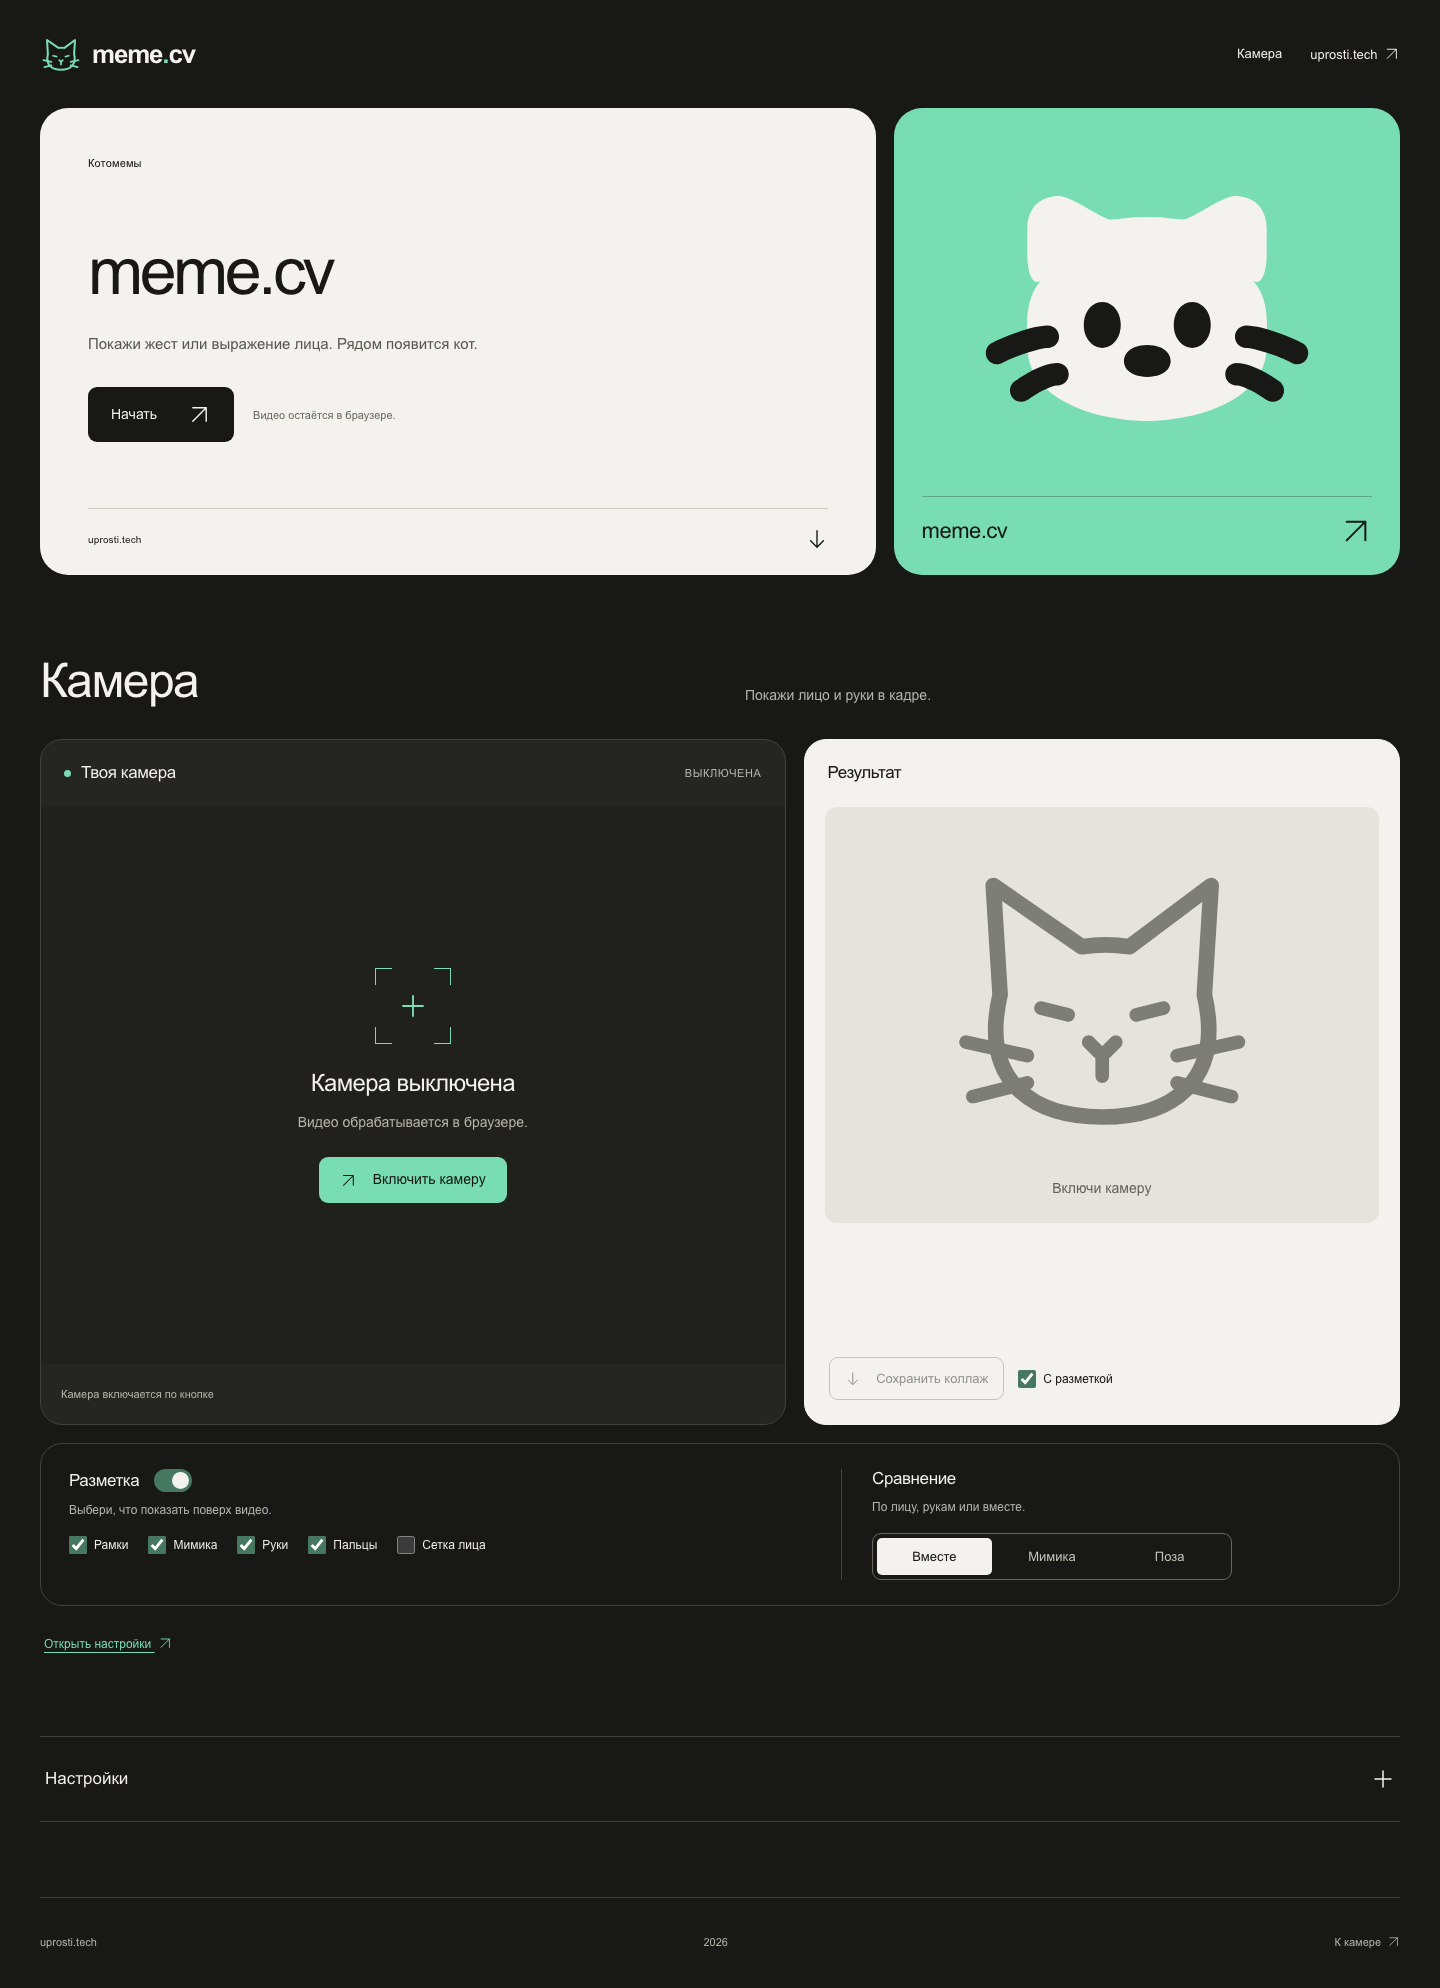
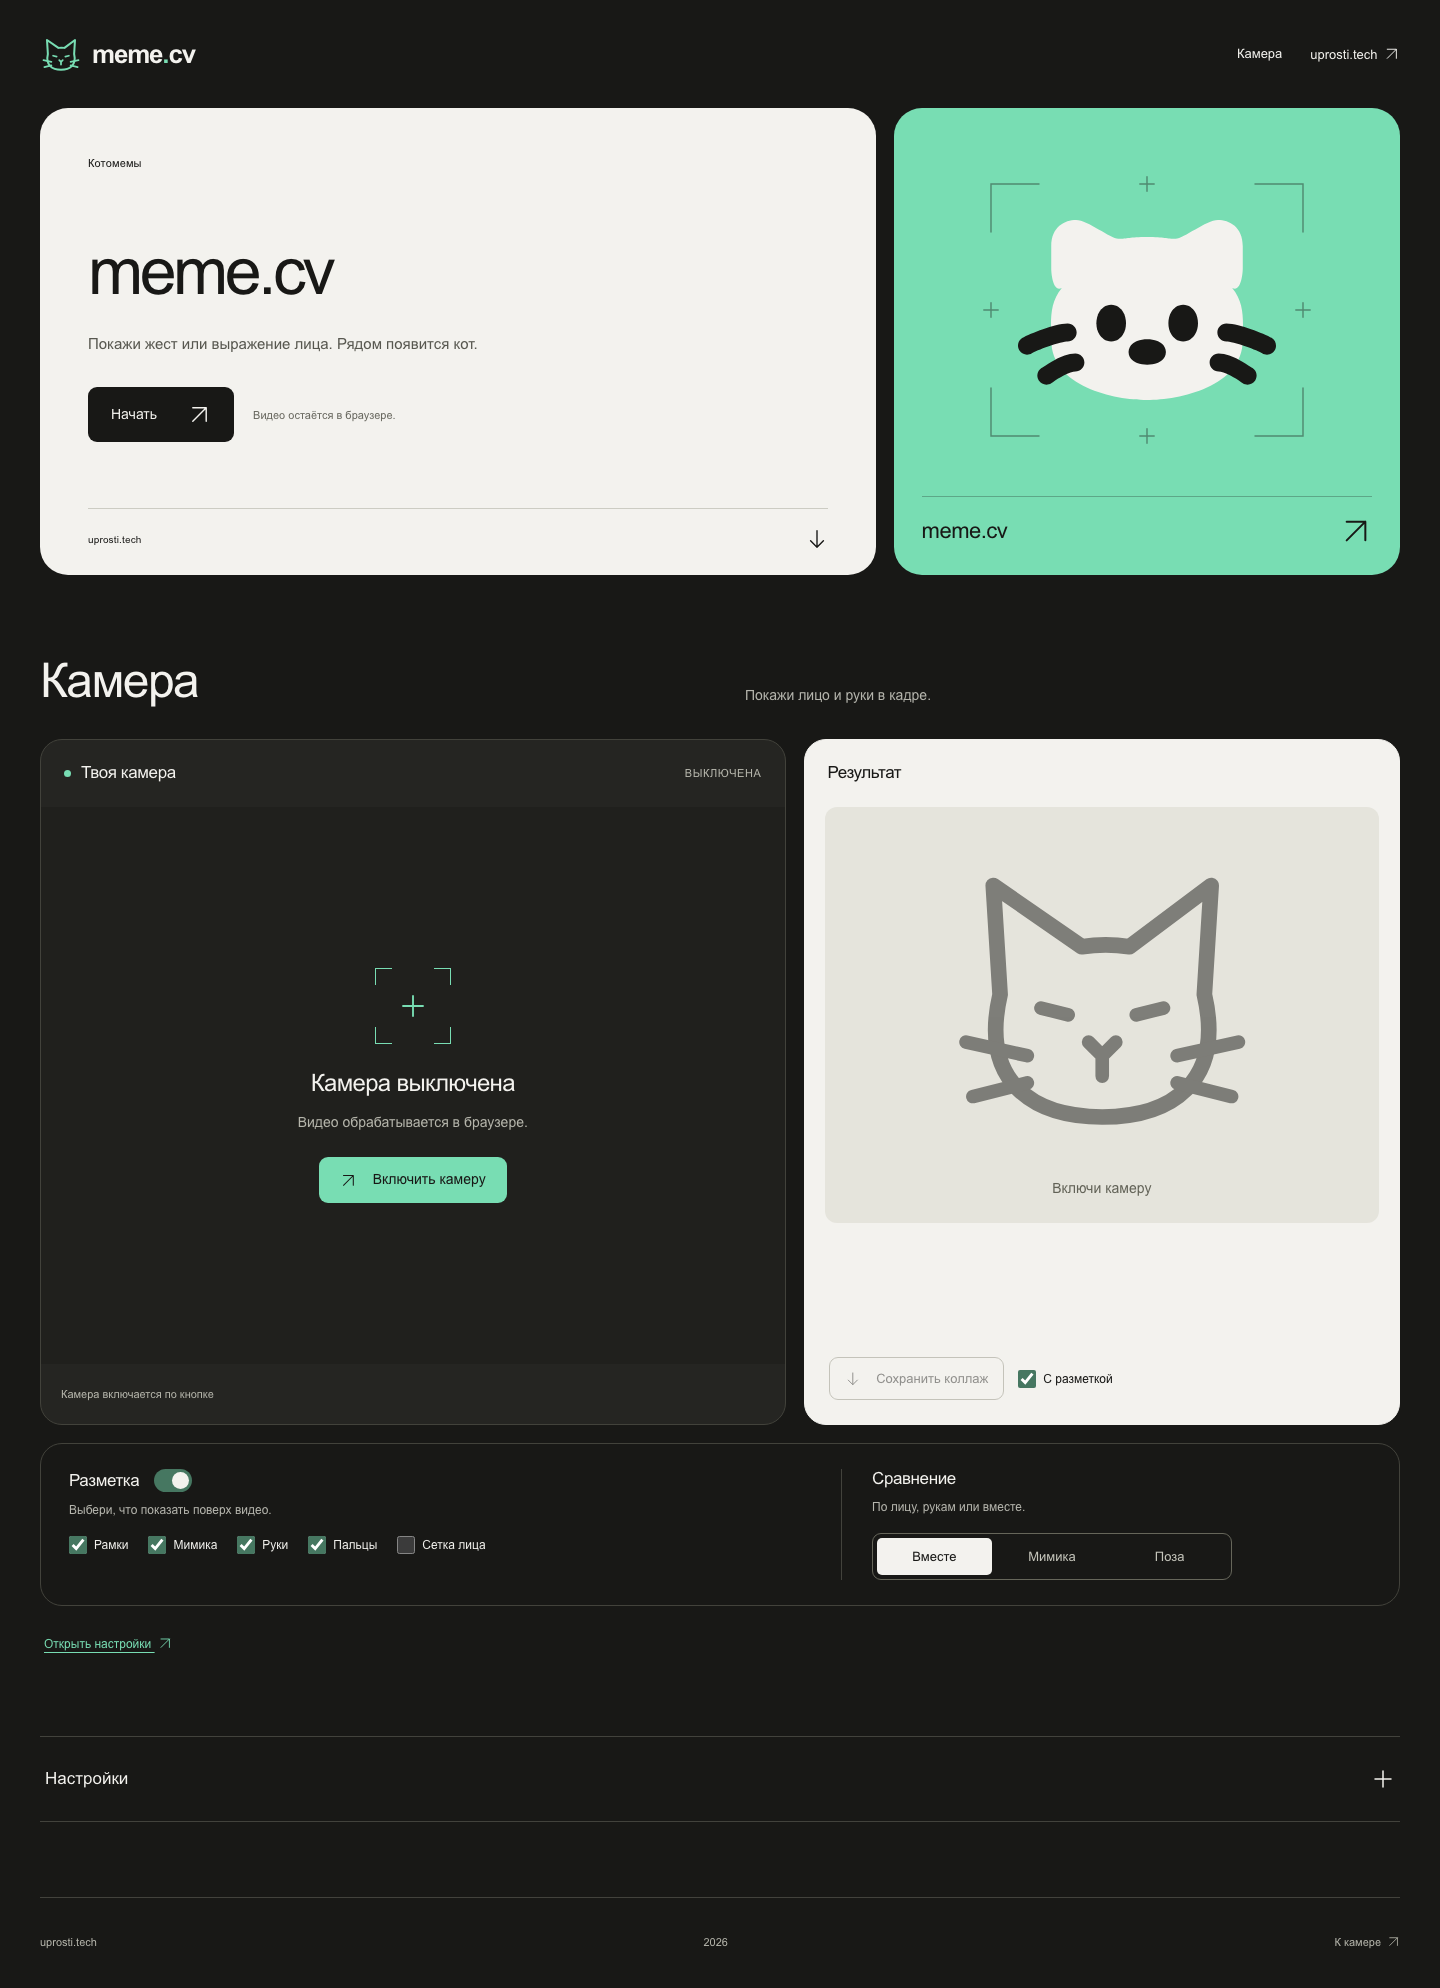
Restore gentle hero cat motion and CV target frame

Changed region(s): [[0.6875, 0.0936, 0.9062, 0.2183]]

diff --git a/src/components/HeroCat.tsx b/src/components/HeroCat.tsx
@@ -1,15 +1,25 @@
 export function HeroCat() {
   return (
-    <svg className="hero-cat-svg" aria-hidden="true" viewBox="0 0 24 24" fill="none" xmlns="http://www.w3.org/2000/svg">
-    {/* Source: user-selected SVG Repo SVG. */}
-    <path d="M9.60601 5.5625C10.3721 5.5625 10.5197 5.40636 12 5.40636C13.4804 5.40636 13.6279 5.5625 14.394 5.5625C15.0324 5.5625 16.9477 4.00011 17.9053 4.00011C18.8629 4.00011 19.9801 4.56261 19.9801 6.18761V8.0625C19.9781 8.55469 19.7993 10.0634 19.0993 9.66022C20.2113 10.9744 19.98 12.5815 19.9801 14C19.9801 17.9062 14.7132 19 12 19C9.28677 19 4.01994 17.9062 4.01994 14C4.01995 12.5815 3.78875 10.9744 4.90066 9.66022C4.20072 10.0634 4.02188 8.55469 4.01995 8.0625V6.1875C4.01995 4.5625 5.13715 4 6.09476 4C7.05236 4 8.9676 5.5625 9.60601 5.5625Z" fill="var(--paper)"/>
-    <path d="M9.01622 11.0625C8.52738 11.0625 8.20149 11.38 8.03646 11.6464C7.86433 11.9243 7.78235 12.2612 7.78235 12.5938C7.78235 12.9263 7.86433 13.2632 8.03646 13.5411C8.20149 13.8075 8.52738 14.125 9.01622 14.125C9.50506 14.125 9.83095 13.8075 9.99598 13.5411C10.1681 13.2632 10.2501 12.9263 10.2501 12.5938C10.2501 12.2612 10.1681 11.9243 9.99598 11.6464C9.83095 11.38 9.50506 11.0625 9.01622 11.0625Z" fill="currentColor"/>
-    <path d="M14.0365 11.6464C14.2015 11.38 14.5274 11.0625 15.0162 11.0625C15.5051 11.0625 15.831 11.38 15.996 11.6464C16.1681 11.9243 16.2501 12.2612 16.2501 12.5938C16.2501 12.9263 16.1681 13.2632 15.996 13.5411C15.831 13.8075 15.5051 14.125 15.0162 14.125C14.5274 14.125 14.2015 13.8075 14.0365 13.5411C13.8643 13.2632 13.7823 12.9263 13.7823 12.5938C13.7823 12.2612 13.8643 11.9243 14.0365 11.6464Z" fill="currentColor"/>
-    <path fillRule="evenodd" clipRule="evenodd" d="M11.1782 14.0797C11.4305 13.9819 11.7282 13.9375 12.0194 13.9375C12.3107 13.9375 12.6083 13.9819 12.8607 14.0797C12.9844 14.1276 13.1358 14.2032 13.2691 14.3254C13.403 14.448 13.5759 14.675 13.5759 15C13.5759 15.325 13.403 15.552 13.2691 15.6746C13.1358 15.7968 12.9844 15.8724 12.8607 15.9203C12.6083 16.0181 12.3107 16.0625 12.0194 16.0625C11.7282 16.0625 11.4305 16.0181 11.1782 15.9203C11.0545 15.8724 10.9031 15.7968 10.7697 15.6746C10.6359 15.552 10.463 15.325 10.463 15C10.463 14.675 10.6359 14.448 10.7697 14.3254C10.9031 14.2032 11.0545 14.1276 11.1782 14.0797Z" fill="currentColor"/>
-    <path d="M17.8634 13.375C17.8634 12.9608 18.1992 12.625 18.6134 12.625C18.9091 12.625 19.2636 12.6924 19.594 12.7737C19.9387 12.8585 20.3134 12.9729 20.6705 13.095C21.3544 13.3289 22.0797 13.6271 22.4074 13.8387C22.7553 14.0634 22.8552 14.5277 22.6305 14.8756C22.4058 15.2236 21.9415 15.3235 21.5936 15.0988C21.4374 14.9979 20.8723 14.7493 20.1852 14.5144C19.8569 14.4021 19.526 14.3017 19.2356 14.2302C18.9309 14.1553 18.7208 14.125 18.6134 14.125C18.1992 14.125 17.8634 13.7892 17.8634 13.375Z" fill="currentColor"/>
-    <path d="M17.9679 15.125C17.5536 15.125 17.2179 15.4608 17.2179 15.875C17.2179 16.2892 17.5536 16.625 17.9679 16.625C18.1741 16.625 18.5175 16.7402 18.9481 16.9678C19.2901 17.1485 19.6038 17.3533 19.8491 17.5134C19.8952 17.5435 19.9393 17.5723 19.9803 17.5988C20.3283 17.8235 20.7925 17.7236 21.0173 17.3756C21.242 17.0277 21.1421 16.5634 20.7941 16.3387C20.761 16.3173 20.7232 16.2926 20.6812 16.2652C20.4388 16.1067 20.0586 15.8581 19.6489 15.6416C19.1925 15.4004 18.5681 15.125 17.9679 15.125Z" fill="currentColor"/>
-    <path d="M3.81532 14.5144C3.12823 14.7493 2.5632 14.9979 2.40698 15.0988C2.05903 15.3235 1.59478 15.2236 1.37006 14.8756C1.14534 14.5277 1.24524 14.0634 1.5932 13.8387C1.92085 13.6271 2.64614 13.3289 3.33003 13.095C3.68718 12.9729 4.0619 12.8585 4.4066 12.7737C4.73696 12.6924 5.09144 12.625 5.38719 12.625C5.80141 12.625 6.13719 12.9608 6.13719 13.375C6.13719 13.7892 5.80141 14.125 5.38719 14.125C5.27973 14.125 5.06968 14.1553 4.76496 14.2302C4.47458 14.3017 4.14365 14.4021 3.81532 14.5144Z" fill="currentColor"/>
-    <path d="M4.02026 17.5988C4.06139 17.5722 4.10522 17.5436 4.15147 17.5134C4.3968 17.3533 4.71048 17.1485 5.05248 16.9678C5.48313 16.7402 5.82654 16.625 6.03273 16.625C6.44695 16.625 6.78273 16.2892 6.78273 15.875C6.78273 15.4608 6.44695 15.125 6.03273 15.125C5.43247 15.125 4.80813 15.4004 4.35169 15.6416C3.94197 15.8581 3.56178 16.1067 3.31938 16.2652C3.27751 16.2925 3.23956 16.3174 3.20648 16.3387C2.85852 16.5634 2.75862 17.0277 2.98334 17.3756C3.20806 17.7236 3.67231 17.8235 4.02026 17.5988Z" fill="currentColor"/>
+    <svg className="hero-cat-scene" aria-hidden="true" viewBox="-3 -3 30 30" fill="none" xmlns="http://www.w3.org/2000/svg">
+      <g className="hero-cat-targets" data-cat-targets="true" stroke="currentColor" strokeWidth=".12" strokeLinecap="round" opacity=".42">
+        <path data-target="corners" d="M3 1H-1V5 M21 1H25V5 M-1 18V22H3 M25 18V22H21" />
+        <path data-target="marks" d="M11.4 1H12.6 M12 .4V1.6 M11.4 22H12.6 M12 21.4V22.6 M-1.6 11.5H-.4 M-1 10.9V12.1 M24.4 11.5H25.6 M25 10.9V12.1" />
+      </g>
+      <svg className="hero-cat-svg" x="0" y="0" width="24" height="24" aria-hidden="true" viewBox="0 0 24 24" fill="none" xmlns="http://www.w3.org/2000/svg">
+        {/* Source: user-selected SVG Repo SVG; original eight paths unchanged. */}
+        <g className="hero-cat-body" data-cat-geometry="true">
+          <path d="M9.60601 5.5625C10.3721 5.5625 10.5197 5.40636 12 5.40636C13.4804 5.40636 13.6279 5.5625 14.394 5.5625C15.0324 5.5625 16.9477 4.00011 17.9053 4.00011C18.8629 4.00011 19.9801 4.56261 19.9801 6.18761V8.0625C19.9781 8.55469 19.7993 10.0634 19.0993 9.66022C20.2113 10.9744 19.98 12.5815 19.9801 14C19.9801 17.9062 14.7132 19 12 19C9.28677 19 4.01994 17.9062 4.01994 14C4.01995 12.5815 3.78875 10.9744 4.90066 9.66022C4.20072 10.0634 4.02188 8.55469 4.01995 8.0625V6.1875C4.01995 4.5625 5.13715 4 6.09476 4C7.05236 4 8.9676 5.5625 9.60601 5.5625Z" fill="var(--paper)"/>
+          <g className="hero-cat-eyes">
+            <path d="M9.01622 11.0625C8.52738 11.0625 8.20149 11.38 8.03646 11.6464C7.86433 11.9243 7.78235 12.2612 7.78235 12.5938C7.78235 12.9263 7.86433 13.2632 8.03646 13.5411C8.20149 13.8075 8.52738 14.125 9.01622 14.125C9.50506 14.125 9.83095 13.8075 9.99598 13.5411C10.1681 13.2632 10.2501 12.9263 10.2501 12.5938C10.2501 12.2612 10.1681 11.9243 9.99598 11.6464C9.83095 11.38 9.50506 11.0625 9.01622 11.0625Z" fill="currentColor"/>
+            <path d="M14.0365 11.6464C14.2015 11.38 14.5274 11.0625 15.0162 11.0625C15.5051 11.0625 15.831 11.38 15.996 11.6464C16.1681 11.9243 16.2501 12.2612 16.2501 12.5938C16.2501 12.9263 16.1681 13.2632 15.996 13.5411C15.831 13.8075 15.5051 14.125 15.0162 14.125C14.5274 14.125 14.2015 13.8075 14.0365 13.5411C13.8643 13.2632 13.7823 12.9263 13.7823 12.5938C13.7823 12.2612 13.8643 11.9243 14.0365 11.6464Z" fill="currentColor"/>
+          </g>
+          <path fillRule="evenodd" clipRule="evenodd" d="M11.1782 14.0797C11.4305 13.9819 11.7282 13.9375 12.0194 13.9375C12.3107 13.9375 12.6083 13.9819 12.8607 14.0797C12.9844 14.1276 13.1358 14.2032 13.2691 14.3254C13.403 14.448 13.5759 14.675 13.5759 15C13.5759 15.325 13.403 15.552 13.2691 15.6746C13.1358 15.7968 12.9844 15.8724 12.8607 15.9203C12.6083 16.0181 12.3107 16.0625 12.0194 16.0625C11.7282 16.0625 11.4305 16.0181 11.1782 15.9203C11.0545 15.8724 10.9031 15.7968 10.7697 15.6746C10.6359 15.552 10.463 15.325 10.463 15C10.463 14.675 10.6359 14.448 10.7697 14.3254C10.9031 14.2032 11.0545 14.1276 11.1782 14.0797Z" fill="currentColor"/>
+          <path d="M17.8634 13.375C17.8634 12.9608 18.1992 12.625 18.6134 12.625C18.9091 12.625 19.2636 12.6924 19.594 12.7737C19.9387 12.8585 20.3134 12.9729 20.6705 13.095C21.3544 13.3289 22.0797 13.6271 22.4074 13.8387C22.7553 14.0634 22.8552 14.5277 22.6305 14.8756C22.4058 15.2236 21.9415 15.3235 21.5936 15.0988C21.4374 14.9979 20.8723 14.7493 20.1852 14.5144C19.8569 14.4021 19.526 14.3017 19.2356 14.2302C18.9309 14.1553 18.7208 14.125 18.6134 14.125C18.1992 14.125 17.8634 13.7892 17.8634 13.375Z" fill="currentColor"/>
+          <path d="M17.9679 15.125C17.5536 15.125 17.2179 15.4608 17.2179 15.875C17.2179 16.2892 17.5536 16.625 17.9679 16.625C18.1741 16.625 18.5175 16.7402 18.9481 16.9678C19.2901 17.1485 19.6038 17.3533 19.8491 17.5134C19.8952 17.5435 19.9393 17.5723 19.9803 17.5988C20.3283 17.8235 20.7925 17.7236 21.0173 17.3756C21.242 17.0277 21.1421 16.5634 20.7941 16.3387C20.761 16.3173 20.7232 16.2926 20.6812 16.2652C20.4388 16.1067 20.0586 15.8581 19.6489 15.6416C19.1925 15.4004 18.5681 15.125 17.9679 15.125Z" fill="currentColor"/>
+          <path d="M3.81532 14.5144C3.12823 14.7493 2.5632 14.9979 2.40698 15.0988C2.05903 15.3235 1.59478 15.2236 1.37006 14.8756C1.14534 14.5277 1.24524 14.0634 1.5932 13.8387C1.92085 13.6271 2.64614 13.3289 3.33003 13.095C3.68718 12.9729 4.0619 12.8585 4.4066 12.7737C4.73696 12.6924 5.09144 12.625 5.38719 12.625C5.80141 12.625 6.13719 12.9608 6.13719 13.375C6.13719 13.7892 5.80141 14.125 5.38719 14.125C5.27973 14.125 5.06968 14.1553 4.76496 14.2302C4.47458 14.3017 4.14365 14.4021 3.81532 14.5144Z" fill="currentColor"/>
+          <path d="M4.02026 17.5988C4.06139 17.5722 4.10522 17.5436 4.15147 17.5134C4.3968 17.3533 4.71048 17.1485 5.05248 16.9678C5.48313 16.7402 5.82654 16.625 6.03273 16.625C6.44695 16.625 6.78273 16.2892 6.78273 15.875C6.78273 15.4608 6.44695 15.125 6.03273 15.125C5.43247 15.125 4.80813 15.4004 4.35169 15.6416C3.94197 15.8581 3.56178 16.1067 3.31938 16.2652C3.27751 16.2925 3.23956 16.3174 3.20648 16.3387C2.85852 16.5634 2.75862 17.0277 2.98334 17.3756C3.20806 17.7236 3.67231 17.8235 4.02026 17.5988Z" fill="currentColor"/>
+        </g>
+      </svg>
     </svg>
   )
 }

diff --git a/e2e/icons.spec.ts b/e2e/icons.spec.ts
@@ -7,17 +7,21 @@ test('iPhone UI uses SVG paths instead of emoji-capable decoration', async ({ pa
   const cta = page.getByRole('button', { name: 'Начать', exact: true })
   await expect(cta).toBeVisible()
   await expect(cta.locator('svg[data-icon="arrow-up-right"]')).toHaveAttribute('aria-hidden', 'true')
-  await expect(page.locator('.hero-cat-svg path')).toHaveCount(8)
-  const catBody = page.locator('.hero-cat-svg path').first()
+  await expect(page.locator('[data-cat-geometry] path')).toHaveCount(8)
+  const catBody = page.locator('[data-cat-geometry] path').first()
   await expect(catBody).not.toHaveAttribute('opacity')
   await expect(catBody).toHaveAttribute('fill', 'var(--paper)')
   await expect(catBody).toHaveCSS('fill', 'rgb(243, 242, 238)')
   await expect(catBody).toHaveCSS('opacity', '1')
-  const catDetails = page.locator('.hero-cat-svg path').nth(1)
+  const catDetails = page.locator('[data-cat-geometry] path').nth(1)
   await expect(catDetails).toHaveAttribute('fill', 'currentColor')
   await expect(catDetails).toHaveCSS('fill', 'rgb(24, 24, 22)')
   await expect(page.locator('.hero-card-star, .cat-orbit, .hero-cat-heading')).toHaveCount(0)
-  await expect(page.locator('.hero-cat-svg')).toHaveCSS('animation-name', 'none')
+  await expect(page.locator('.hero-cat-body')).toHaveCSS('animation-name', 'hero-cat-breathe')
+  await expect(page.locator('.hero-cat-eyes')).toHaveCSS('animation-name', 'hero-cat-blink')
+  await expect(page.locator('.hero-cat-eyes path')).toHaveCount(2)
+  await expect(page.locator('[data-cat-targets] path')).toHaveCount(2)
+  await expect(page.locator('[data-cat-targets]')).toHaveAttribute('opacity', '.42')
   await expect(page.locator('.hero-cat-footer')).toHaveText('meme.cv')
   await expect(page.getByRole('navigation').getByRole('link', { name: 'uprosti.tech', exact: true }).locator('svg')).toHaveCount(1)
   expect(await page.locator('main').innerText()).not.toMatch(/[↗↘↙↖↓↑→✳＋■]/u)
@@ -55,5 +59,51 @@ test('retired theme preview URLs lead to the homepage', async ({ page }) => {
     await expect(page.getByRole('heading', { level: 1 })).toHaveText('meme.cv')
     await expect(page.getByRole('radio')).toHaveCount(0)
     await expect(page.locator('.hero-cat-card')).toHaveCSS('background-color', 'rgb(120, 221, 179)')
+  }
+})
+
+test('reduced motion freezes the cat and both eyes without hiding CV targets', async ({ page }) => {
+  await page.emulateMedia({ reducedMotion: 'reduce' })
+  await page.goto('/')
+  for (const selector of ['.hero-cat-body', '.hero-cat-eyes']) {
+    await expect(page.locator(selector)).toHaveCSS('animation-name', 'none')
+    await expect(page.locator(selector)).toHaveCSS('transform', 'none')
+  }
+  expect(await page.locator('.hero-cat-scene').evaluate(el => el.getAnimations({ subtree: true }).length)).toBe(0)
+  await expect(page.locator('[data-cat-geometry] path')).toHaveCount(8)
+  await expect(page.locator('[data-cat-targets]')).toBeVisible()
+  await page.emulateMedia({ reducedMotion: 'no-preference' })
+  await expect(page.locator('.hero-cat-body')).toHaveCSS('animation-name', 'hero-cat-breathe')
+  await expect(page.locator('.hero-cat-eyes')).toHaveCSS('animation-name', 'hero-cat-blink')
+})
+
+
+test('cat and CV frame stay inside their viewport throughout breathing on desktop and mobile', async ({ page }) => {
+  await page.emulateMedia({ reducedMotion: 'no-preference' })
+  for (const viewport of [{ width: 1440, height: 1000 }, { width: 390, height: 844 }]) {
+    await page.setViewportSize(viewport)
+    await page.goto('/')
+    for (const time of [0, 2800, 5600]) {
+      const fits = await page.locator('.hero-cat-scene').evaluate((scene, time) => {
+        scene.getAnimations({ subtree: true }).forEach(animation => {
+          animation.pause()
+          animation.currentTime = time
+        })
+        const outer = scene.getBoundingClientRect()
+        return [...scene.querySelectorAll('path')].every(path => {
+          const box = path.getBoundingClientRect()
+          return box.left > outer.left && box.right < outer.right && box.top > outer.top && box.bottom < outer.bottom
+        })
+      }, time)
+      expect(fits).toBe(true)
+    }
+    expect(await page.evaluate(() => document.documentElement.scrollWidth <= innerWidth)).toBe(true)
+    // Blink affects exactly the two eye paths, never the nose or head.
+    const blink = await page.locator('.hero-cat-eyes').evaluate(eyes => {
+      const animation = eyes.getAnimations()[0]
+      animation.currentTime = 8400 * .45
+      return { transform: getComputedStyle(eyes).transform, paths: eyes.querySelectorAll('path').length }
+    })
+    expect(blink).toEqual({ transform: 'matrix(1, 0, 0, 0.08, 0, 0)', paths: 2 })
   }
 })

diff --git a/src/App.css b/src/App.css
@@ -241,10 +241,40 @@ main > *, .workspace > *, .details-grid > *, .control-group,
   min-height: 300px;
 }
 
-.hero-cat-svg {
+.hero-cat-scene {
   display: block;
   width: min(100%, 360px);
   aspect-ratio: 1;
+}
+
+/* Keep the original 24-unit cat independent from its airy CV frame. */
+.hero-cat-body {
+  transform-box: view-box;
+  transform-origin: 12px 17px;
+  animation: hero-cat-breathe 5.6s ease-in-out infinite;
+}
+
+.hero-cat-eyes {
+  transform-box: fill-box;
+  transform-origin: center;
+  animation: hero-cat-blink 8.4s ease-in-out infinite;
+}
+
+@keyframes hero-cat-breathe {
+  0%, 100% { transform: translateY(.12px) rotate(-1deg) scale(1); }
+  50% { transform: translateY(-.16px) rotate(1deg) scale(1.012); }
+}
+
+@keyframes hero-cat-blink {
+  0%, 43%, 47%, 100% { transform: scaleY(1); }
+  45% { transform: scaleY(.08); }
+}
+
+@media (prefers-reduced-motion: reduce) {
+  .hero-cat-body, .hero-cat-eyes {
+    animation: none;
+    transform: none;
+  }
 }
 
 .hero-cat-footer {
@@ -1308,7 +1338,7 @@ footer .brand {
     flex: none;
   }
 
-  .hero-cat-svg {
+  .hero-cat-scene {
     width: auto;
     height: 100%;
     max-width: 100%;
